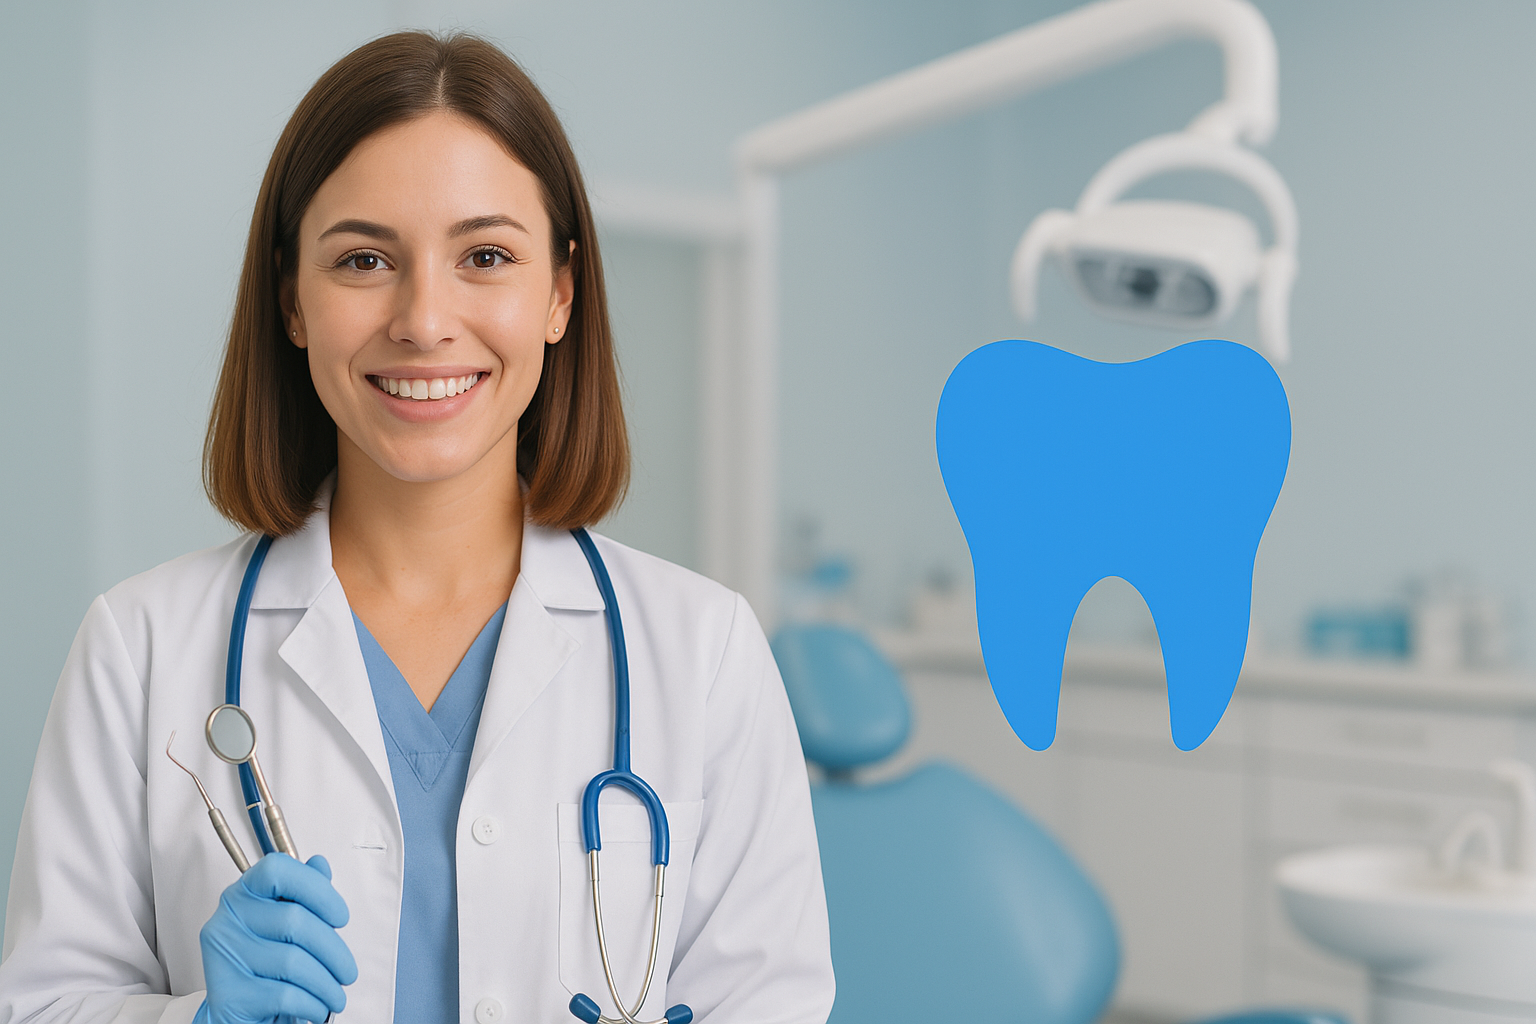
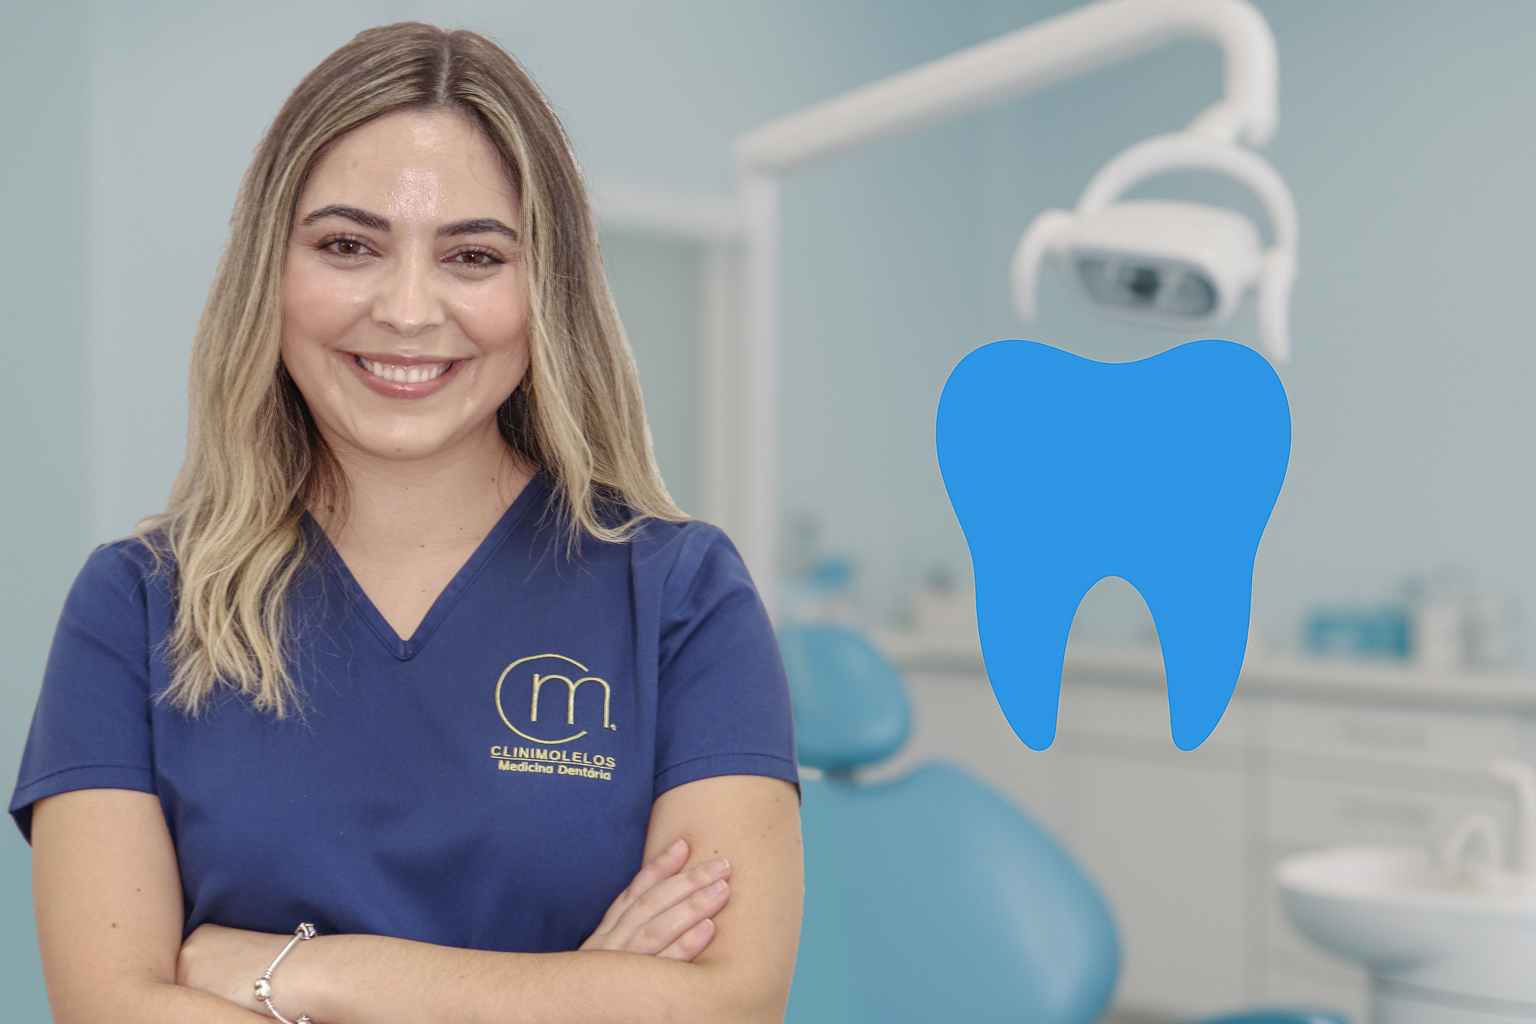
promocao da app

diff --git a/frontend/src/styleWEBPAGE.css b/frontend/src/styleWEBPAGE.css
@@ -44,7 +44,8 @@
 
 .info-text {
     font-size: 28px;
-    font-weight: bold;
+    font-weight: 700;
+    font-family: 'Inter', sans-serif;
 }
 
 .user-icon {
@@ -66,7 +67,8 @@
 
 body {
   margin: 0;
-  font-family: Arial, sans-serif;
+  font-family: 'Inter', sans-serif;
+  font-weight: 400;
   color: #333;
   background-color: #ffffff;
   background-image:
@@ -90,6 +92,21 @@ body {
 header h1 {
   font-size: 20px;
   margin-bottom: 20px;
+}
+
+h1, h2, h3, h4, h5, h6 {
+  font-family: 'Inter', sans-serif;
+  font-weight: 700;
+}
+
+p {
+  font-family: 'Inter', sans-serif;
+  font-weight: 400;
+}
+
+button {
+  font-family: 'Inter', sans-serif;
+  font-weight: 400;
 }
 
 
@@ -136,8 +153,19 @@ section img {
 
 .faixa {
     background: #eaeaea;   
-    padding: 40px 0;       
+    padding: 40px 20px;       
     text-align: center;    
+}
+
+.faixa a {
+    display: inline-block;
+    text-decoration: none;
+}
+
+.faixa .install-btn {
+    display: inline-block;
+    width: auto;
+    padding: 12px 40px;
 }
 
 .faixa h2 {

diff --git a/frontend/src/view/webpage.jsx b/frontend/src/view/webpage.jsx
@@ -28,11 +28,11 @@ const Webpage = () => {
         </div>
       </header>
 
-      <img src={tele} alt="Telemóveis" class="phones"/>
+      <img src={tele} alt="Telemóveis" class="phones" />
 
       <div class="container">
         <p class="info-text">Os seus tratamentos, no seu bolso</p>
-      
+
         <img src={media} alt="Media" />
 
         <a href="caminho/para/app.apk" download="app.apk">
@@ -69,7 +69,7 @@ const Webpage = () => {
 
         <a href="caminho/para/app.apk" download="app.apk">
           <button class="install-btn">
-            <img src="icone-android.png" alt="Android"/> 
+
             Instale Agora
           </button>
         </a>

diff --git a/frontend/index.html b/frontend/index.html
@@ -4,6 +4,9 @@
     <meta charset="UTF-8" />
     <link rel="icon" type="image/svg+xml" href="./src/assets/clini_circulo.png" />
     <meta name="viewport" content="width=device-width, initial-scale=1.0" />
+    <link rel="preconnect" href="https://fonts.googleapis.com" />
+    <link rel="preconnect" href="https://fonts.gstatic.com" crossorigin />
+    <link href="https://fonts.googleapis.com/css2?family=Inter:wght@400;700&display=swap" rel="stylesheet" />
     <meta name="description" content="A aplicação da clínica Clinimolelos para os doutores gerir os dados e/ou os pacientes acederem aos seus dados." />
     <title>Clinimolelos</title>
   </head>
